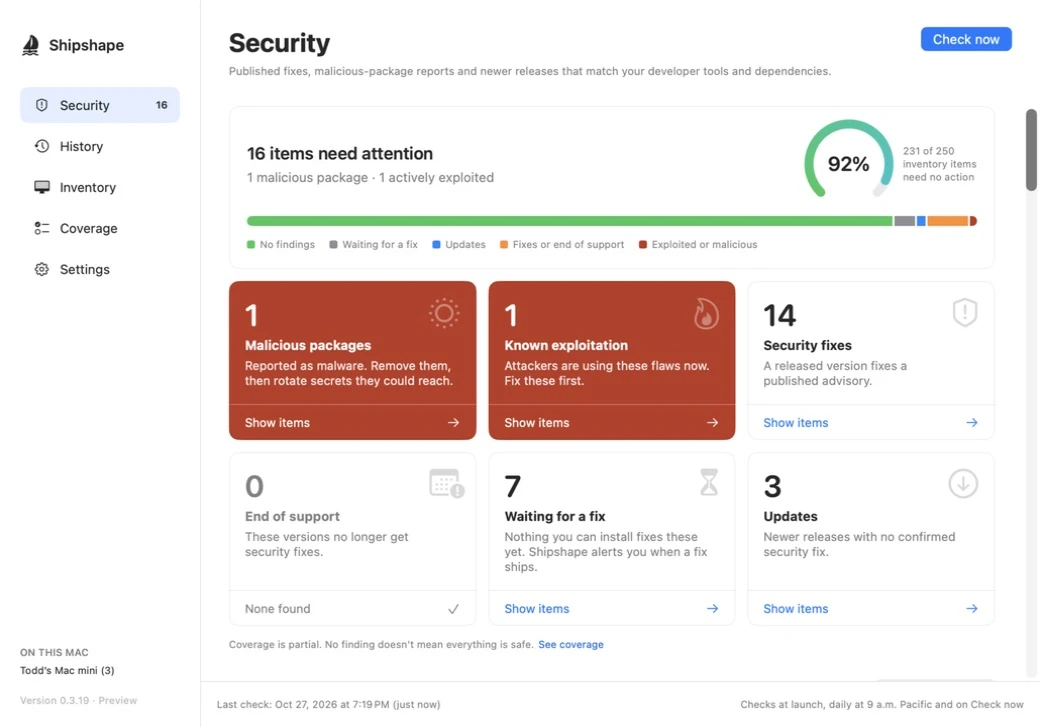
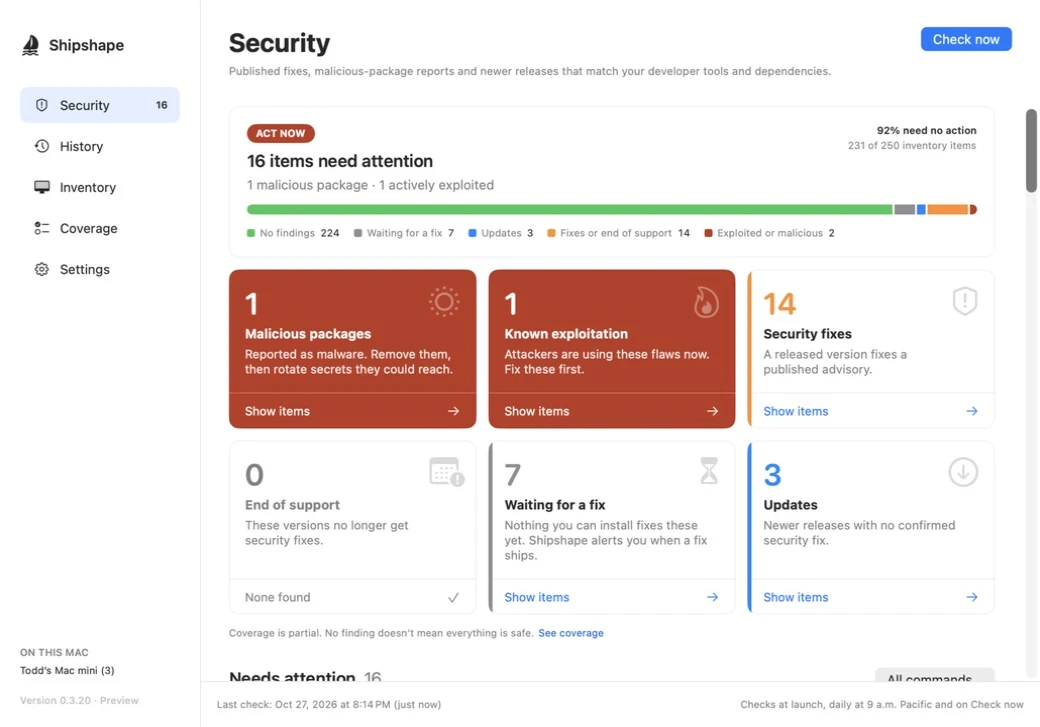
Shipshape 0.3.20: a status badge instead of the gauge
The Security summary leads with a badge set by the most urgent finding:
Act now for malicious packages or known exploitation, Fix soon for
security fixes or end of support, Nothing urgent when only waiting or
updates remain, and All clear. A high percentage could look healthy with
a malicious package present. The share needing no action moves to a
caption, the bar legend shows counts, and tiles with findings take their
bar color; malware and known exploitation stay filled red. The README
screenshot shows the badge. native/scenario.sh can open a scenario in
light mode and quits a running copy before relaunching it.

diff --git a/native/Sources/App.swift b/native/Sources/App.swift
@@ -697,15 +697,21 @@ struct StackSummary: View {
         let items = FindingCategory.items(in: report)
         let total = report.installations.count
         let clear = max(0, total - items.values.reduce(0, +)), settled = FindingCategory.settled(in: report)
-        // Items needing no action come first, so the ring's share is the bar's green and gray together.
+        let urgency = FindingCategory.Urgency(counts)
+        // Items needing no action come first: green, then gray. Each segment has its tiles' color.
         let shares = [Share(label: "No findings", count: clear, color: .green),
-                      Share(label: "Waiting for a fix", count: items[.waiting] ?? 0, color: .gray),
-                      Share(label: "Updates", count: items[.updates] ?? 0, color: .blue),
-                      Share(label: "Fixes or end of support", count: (items[.security] ?? 0) + (items[.unsupported] ?? 0), color: .orange),
-                      Share(label: "Exploited or malicious", count: (items[.exploited] ?? 0) + (items[.malicious] ?? 0), color: alarmRed)]
+                      Share(label: "Waiting for a fix", count: items[.waiting] ?? 0, color: FindingCategory.waiting.color),
+                      Share(label: "Updates", count: items[.updates] ?? 0, color: FindingCategory.updates.color),
+                      Share(label: "Fixes or end of support", count: (items[.security] ?? 0) + (items[.unsupported] ?? 0), color: FindingCategory.security.color),
+                      Share(label: "Exploited or malicious", count: (items[.exploited] ?? 0) + (items[.malicious] ?? 0), color: FindingCategory.malicious.color)]
         VStack(alignment: .leading, spacing: 12) {
-            HStack(alignment: .center, spacing: 14) {
+            HStack(alignment: .top, spacing: 14) {
                 VStack(alignment: .leading, spacing: 5) {
+                    // The status, set by the most urgent kind of finding, however few: one malicious package among
+                    // hundreds of clean items is still the most urgent thing Shipshape can find.
+                    Text(urgency.label.uppercased()).font(.caption2.weight(.bold)).foregroundStyle(.white)
+                        .padding(.horizontal, 9).padding(.vertical, 3).background(urgency.color, in: Capsule()).padding(.bottom, 3)
+                        .accessibilityLabel("Status: \(urgency.label)")
                     Text(FindingCategory.attentionTitle(report.attention.count)).font(.title2.weight(.semibold))
                     if !urgent.isEmpty { Text(urgent).foregroundStyle(.secondary) }
                     if !report.errors.isEmpty {
@@ -713,13 +719,21 @@ struct StackSummary: View {
                     }
                 }
                 Spacer()
-                SettledGauge(fraction: total == 0 ? 1 : Double(settled) / Double(total))
-                Text("\(settled.formatted()) of \(total.formatted())\ninventory items\nneed no action").font(.caption).foregroundStyle(.secondary)
+                // How much of the inventory needs no action: no findings, or only findings waiting for a fixed release.
+                // It rounds down, so 100% means there's nothing left to do.
+                VStack(alignment: .trailing, spacing: 2) {
+                    Text("\(total == 0 ? 100 : settled * 100 / total)% need no action").font(.caption.weight(.semibold))
+                    Text("\(settled.formatted()) of \(total.formatted()) inventory items").font(.caption).foregroundStyle(.secondary)
+                }
             }
             ShareBar(parts: shares.map { ($0.count, $0.color) })
             HStack(spacing: 14) {
                 ForEach(shares.filter { $0.count > 0 }) { share in
-                    HStack(spacing: 5) { RoundedRectangle(cornerRadius: 2).fill(share.color).frame(width: 8, height: 8); Text(share.label) }
+                    HStack(spacing: 5) {
+                        RoundedRectangle(cornerRadius: 2).fill(share.color).frame(width: 8, height: 8)
+                        Text(share.label)
+                        Text(share.count.formatted()).foregroundStyle(.primary).monospacedDigit()
+                    }
                 }
             }.font(.caption).foregroundStyle(.secondary)
         }.modifier(CardStyle())
@@ -728,24 +742,6 @@ struct StackSummary: View {
         let malicious = counts[.malicious] ?? 0, exploited = counts[.exploited] ?? 0
         return [malicious > 0 ? "\(malicious) malicious package\(malicious == 1 ? "" : "s")" : nil,
                 exploited > 0 ? "\(exploited) actively exploited" : nil].compactMap { $0 }.joined(separator: " · ")
-    }
-}
-// The share of inventory items that need no action, as a gauge: an arc open at the bottom that fills clockwise from
-// its lower left. Items without findings and those only waiting for a fixed release count. The percentage rounds
-// down, so 100% means there's nothing left to do.
-struct SettledGauge: View {
-    let fraction: Double
-    static let sweep = 0.75  // three quarters of a circle, leaving the gap at the bottom
-    var body: some View {
-        let arc = StrokeStyle(lineWidth: 9, lineCap: .round)
-        ZStack {
-            Group {
-                Circle().trim(from: 0, to: Self.sweep).stroke(Color.primary.opacity(0.1), style: arc)
-                Circle().trim(from: 0, to: Self.sweep * min(max(fraction, 0), 1))
-                    .stroke(AngularGradient(colors: [.green, .teal], center: .center, startAngle: .zero, endAngle: .degrees(360 * Self.sweep)), style: arc)
-            }.rotationEffect(.degrees(135))
-            Text("\(Int((fraction * 100).rounded(.down)))%").font(.system(size: 20, weight: .semibold, design: .rounded))
-        }.frame(width: 80, height: 80)
     }
 }
 // One bar split in proportion to the counts. A nonzero share is never thinner than a few points, so a single
@@ -766,8 +762,9 @@ struct ShareBar: View {
         return widths
     }
 }
-// One kind of finding: how many, what it means and a button that lists them. Malware and known exploitation are
-// filled red when present, so the most urgent tile stands out; empty tiles are dimmed.
+// One kind of finding: how many, what it means and a button that lists them. A tile with findings has its bar color
+// as a stripe and on its count; malware and known exploitation are filled red instead, so they stand out. Empty
+// tiles are dimmed.
 struct CategoryTile: View {
     let category: FindingCategory
     let count: Int
@@ -779,7 +776,7 @@ struct CategoryTile: View {
         Button { if count > 0 { action() } } label: {
             VStack(alignment: .leading, spacing: 0) {
                 VStack(alignment: .leading, spacing: 5) {
-                    Text("\(count)").font(.system(size: 30, weight: .semibold, design: .rounded))
+                    Text("\(count)").font(.system(size: 30, weight: .semibold, design: .rounded)).foregroundStyle(count > 0 && !hot ? category.color : ink)
                     Text(category.title).font(.headline)
                     Text(category.detail).font(.callout).foregroundStyle(hot ? Color.white.opacity(0.9) : .secondary).fixedSize(horizontal: false, vertical: true)
                 }
@@ -797,7 +794,9 @@ struct CategoryTile: View {
                 .padding(.horizontal, 16).padding(.vertical, 10)
             }
             .foregroundStyle(ink)
-            .background(hot ? alarmRed : Color(nsColor: .controlBackgroundColor), in: RoundedRectangle(cornerRadius: 10))
+            .background(hot ? alarmRed : Color(nsColor: .controlBackgroundColor))
+            .overlay(alignment: .leading) { if count > 0 && !hot { Rectangle().fill(category.color).frame(width: 4) } }
+            .clipShape(RoundedRectangle(cornerRadius: 10))
             .overlay(RoundedRectangle(cornerRadius: 10).strokeBorder(selected ? Color.accentColor : Color.primary.opacity(0.07), lineWidth: selected ? 2.5 : 1))
             .contentShape(RoundedRectangle(cornerRadius: 10))
         }.buttonStyle(.plain).frame(maxWidth: .infinity, maxHeight: .infinity)
@@ -805,6 +804,27 @@ struct CategoryTile: View {
 }
 // A brick red, darker than system red, so white text on it stays readable.
 let alarmRed = Color(red: 0.74, green: 0.22, blue: 0.13)
+extension FindingCategory {
+    // Each kind of finding's color, on its tile and its segment of the summary bar, so the bar works as the tiles' key.
+    var color: Color {
+        switch self {
+        case .malicious, .exploited: return alarmRed
+        case .security, .unsupported: return .orange
+        case .waiting: return .gray
+        case .updates: return .blue
+        }
+    }
+}
+extension FindingCategory.Urgency {
+    // Dark enough for the status badge's white text in light and dark mode.
+    var color: Color {
+        switch self {
+        case .actNow: return alarmRed
+        case .fixSoon: return Color(red: 0.80, green: 0.40, blue: 0.02)
+        case .nothingUrgent, .clear: return Color(red: 0.16, green: 0.55, blue: 0.27)
+        }
+    }
+}
 struct StatCard: View {
     let number: String; let label: String; let color: Color
     var body: some View {

diff --git a/native/Sources/Models.swift b/native/Sources/Models.swift
@@ -234,6 +234,27 @@ enum FindingCategory: Int, CaseIterable, Identifiable, Comparable {
     static func counts(in report: ScanReport) -> [FindingCategory: Int] {
         report.findings.reduce(into: [:]) { $0[FindingCategory(of: $1), default: 0] += 1 }
     }
+    // The Security summary's status, set by the most urgent kind of finding rather than by how much of the inventory is
+    // clean: one malicious package among hundreds of clean items is still the most urgent thing Shipshape can find.
+    enum Urgency: Int, Comparable {
+        case clear, nothingUrgent, fixSoon, actNow
+        static func < (a: Self, b: Self) -> Bool { a.rawValue < b.rawValue }
+        init(_ counts: [FindingCategory: Int]) {
+            func has(_ category: FindingCategory) -> Bool { (counts[category] ?? 0) > 0 }
+            if has(.malicious) || has(.exploited) { self = .actNow }
+            else if has(.security) || has(.unsupported) { self = .fixSoon }
+            else if has(.waiting) || has(.updates) { self = .nothingUrgent }
+            else { self = .clear }
+        }
+        var label: String {
+            switch self {
+            case .actNow: return "Act now"
+            case .fixSoon: return "Fix soon"
+            case .nothingUrgent: return "Nothing urgent"
+            case .clear: return "All clear"
+            }
+        }
+    }
     static func attentionTitle(_ count: Int) -> String {
         count == 0 ? "Nothing needs attention" : count == 1 ? "1 item needs attention" : "\(count) items need attention"
     }

diff --git a/native/Tests/RulesTests.swift b/native/Tests/RulesTests.swift
@@ -1054,6 +1054,10 @@ import Foundation
             expect(info["SURequireSignedFeed"] as? Bool == true && info["SUVerifyUpdateBeforeExtraction"] as? Bool == true, "the feed and each update are verified before use")
             expect((info["SUPublicEDKey"] as? String).map { Data(base64Encoded: $0)?.count == 32 } ?? true, "a public update key, when present, is a 32-byte EdDSA key")
         } else { expect(false, "Info.plist is readable") }
+        expect(FindingCategory.Urgency([.malicious: 1, .updates: 40]) == .actNow && FindingCategory.Urgency([.exploited: 1]) == .actNow
+               && FindingCategory.Urgency([.security: 2, .waiting: 5]) == .fixSoon && FindingCategory.Urgency([.unsupported: 1]) == .fixSoon
+               && FindingCategory.Urgency([.waiting: 3, .updates: 2]) == .nothingUrgent && FindingCategory.Urgency([:]) == .clear,
+               "the summary's status follows the most urgent kind of finding, however few")
         print("Passed \(count) rule, failure-retention, notification-fingerprint and scheduling checks")
     }
 }

diff --git a/native/README.md b/native/README.md
@@ -12,7 +12,7 @@ From 0.3.14, Shipshape updates itself with [Sparkle](https://sparkle-project.org
 
 A fresh check runs every time the app opens, including at login, once the network is up (after 30 seconds it checks anyway). Checks also run daily at 9 a.m. America/Los_Angeles while the app is open, and catch up after waking. **Check now** runs one whenever you like; the dashboard footer and menu show the last check's time and how long ago it was ("10:36 AM (5 minutes ago)"). There is no background polling between checks. A first check takes a few minutes because NVD limits requests without an API key; NVD results are reused for 20 hours. Quitting the app stops monitoring.
 
-The **Security** page starts with a summary card: how many items need attention, a gauge (an arc open at the bottom) with the share of inventory items that need no action (no findings, or only findings waiting for a fixed release), and a bar of every item by its most urgent finding. Six tiles sort findings into malicious packages, known exploitation, security fixes, end of support, waiting for a fix and updates; malicious packages and known exploitation are red when present. A tile lists only its findings, and **Needs attention**, the default list, holds the first four kinds. The menu bar panel shows the same kinds with their counts, and clicking one opens the Security page at that list.
+The **Security** page starts with a summary card. Its status badge names the most urgent kind of finding: **Act now** (red) for malicious packages or known exploitation, **Fix soon** (orange) for security fixes or end of support, **Nothing urgent** (green) when only findings waiting for a fixed release or updates remain, and **All clear** (green) when there are none. Below it are how many items need attention and a bar of every inventory item by its most urgent finding, with each kind's count in the legend. The corner shows the share of items that need no action (no findings, or only findings waiting for a fixed release). Six tiles sort findings into malicious packages, known exploitation, security fixes, end of support, waiting for a fix and updates. A tile with findings takes its bar color (orange, gray or blue), and malicious packages and known exploitation are filled red. A tile lists only its findings, and **Needs attention**, the default list, holds the first four kinds. The menu bar panel shows the same kinds with their counts, and clicking one opens the Security page at that list.
 
 **History** logs every recommendation: when it was first found and, once a check no longer reports it, when it was resolved and how. "Updated to 9.0.2" means the same software is now at another version; "Removed" means an older Homebrew copy was cleaned up; "Removed from this Mac" or "from the project" means the software is gone; "Project folder no longer checked" means its folder was taken out of Settings; and "No longer reported" means the software is unchanged but the advisory no longer matches. A finding that comes back, or is still reported after a version change, starts a new entry. Findings kept as unverified after a failed check stay open. History is stored with the latest result in Application Support, keeps the newest 10,000 entries (dropping the oldest resolved ones first), and exports as CSV. The first launch of a version with History starts it from the last saved result.
 

diff --git a/README.md b/README.md
@@ -4,7 +4,7 @@ Keep the tools you build with patched.
 
 Shipshape is a free, open-source Mac app, in the menu bar and the Dock, for people who build software on a Mac, especially with AI coding tools like Claude Code and Codex. Those tools install a lot quickly: runtimes, package managers, CLIs, MCP servers, Homebrew libraries and thousands of project dependencies. Shipshape keeps track of all of it and tells you when something has a published security fix or a malicious release. For each one it shows the installed and fixed versions, the evidence, and the easiest way to install the fix for how it got onto your Mac: a Terminal command to copy, a download page, or the app's own updater.
 
-![Shipshape's Security page: 16 items need attention, a gauge showing 92% of the inventory needs no action, and tiles for malicious packages and known exploitation in red, then security fixes, end of support, waiting for a fix and updates](docs/shipshape-security.webp)
+![Shipshape's Security page: an Act now badge, 16 items need attention, 92% of the inventory needs no action, and tiles for malicious packages and known exploitation in red, then security fixes in orange, end of support, waiting for a fix in gray and updates in blue](docs/shipshape-security.webp)
 
 ## What it checks
 
@@ -19,7 +19,7 @@ Shipshape is a free, open-source Mac app, in the menu bar and the Dock, for peop
 
 Advisories come from [OSV](https://osv.dev) (including OpenSSF malicious-package reports), [NVD](https://nvd.nist.gov), vendor security pages and GitHub security advisories, with [CISA's Known Exploited Vulnerabilities](https://www.cisa.gov/known-exploited-vulnerabilities-catalog) raising priority. Google Chrome and Mac App Store apps are left out, since they update themselves. The full coverage table and its limits are in [native/README.md](native/README.md).
 
-The **Security** page opens with an overview: how many items need attention, a gauge showing how much of your setup needs no action (items only waiting for a fixed release count as done), and tiles for malicious packages, known exploitation, security fixes, end of support, waiting for a fix and updates. Each tile lists its findings, and the menu bar shows the same counts.
+The **Security** page opens with an overview: a status badge set by the most urgent finding (**Act now** for malware or known exploitation, **Fix soon** for security fixes or end of support, otherwise **Nothing urgent** or **All clear**), how many items need attention, and a bar of your inventory by each item's most urgent finding, with a count for each kind. Below it are tiles for malicious packages, known exploitation, security fixes, end of support, waiting for a fix and updates, in their bar colors; malware and known exploitation fill red. Each tile lists its findings, and the menu bar shows the same counts.
 
 Shipshape checks when it opens, daily at 9 a.m. Pacific and whenever you click **Check now**; the footer shows when the last check ran and how long ago. **History** keeps a log of every recommendation and when it was resolved. If a finding looks wrong, the bug button (**Report a problem**) on its card opens a GitHub issue with its details filled in, for you to review and submit. Next to each finding's location are buttons to copy the path and show it in Finder.
 

diff --git a/CHANGELOG.md b/CHANGELOG.md
@@ -2,8 +2,9 @@
 
 Every release is a universal (Apple silicon and Intel) build for macOS 13 or later, signed with Developer ID and notarized by Apple.
 
-## Unreleased
+## 0.3.20 — October 27, 2026
 
+- **The Security summary leads with a status badge instead of the gauge,** set by the most urgent finding: **Act now** for malicious packages or known exploitation, **Fix soon** for security fixes or end of support, **Nothing urgent** when only findings waiting for a fix or updates remain, and **All clear**. A high percentage could look healthy with a malicious package present; the badge can't. The share of your inventory that needs no action is now a caption in the corner, the bar's legend shows each kind's count, and tiles with findings take their bar color: orange for security fixes and end of support, gray for waiting for a fix and blue for updates. Malicious packages and known exploitation are still filled red.
 - **For contributors: `native/scenario.sh` opens Shipshape on made-up findings,** to see the interface in situations such as malicious packages, known exploitation, a clean Mac, failed checks or two hundred findings, without scanning your Mac. The copy is called Shipshape Dev and has an orange icon; its Scenarios menu and menu bar panel switch between scenarios without relaunching. Development builds with their own data folder can turn checks off with `SHIPSHAPE_NO_CHECKS=1`.
 
 ## 0.3.19 — October 27, 2026
